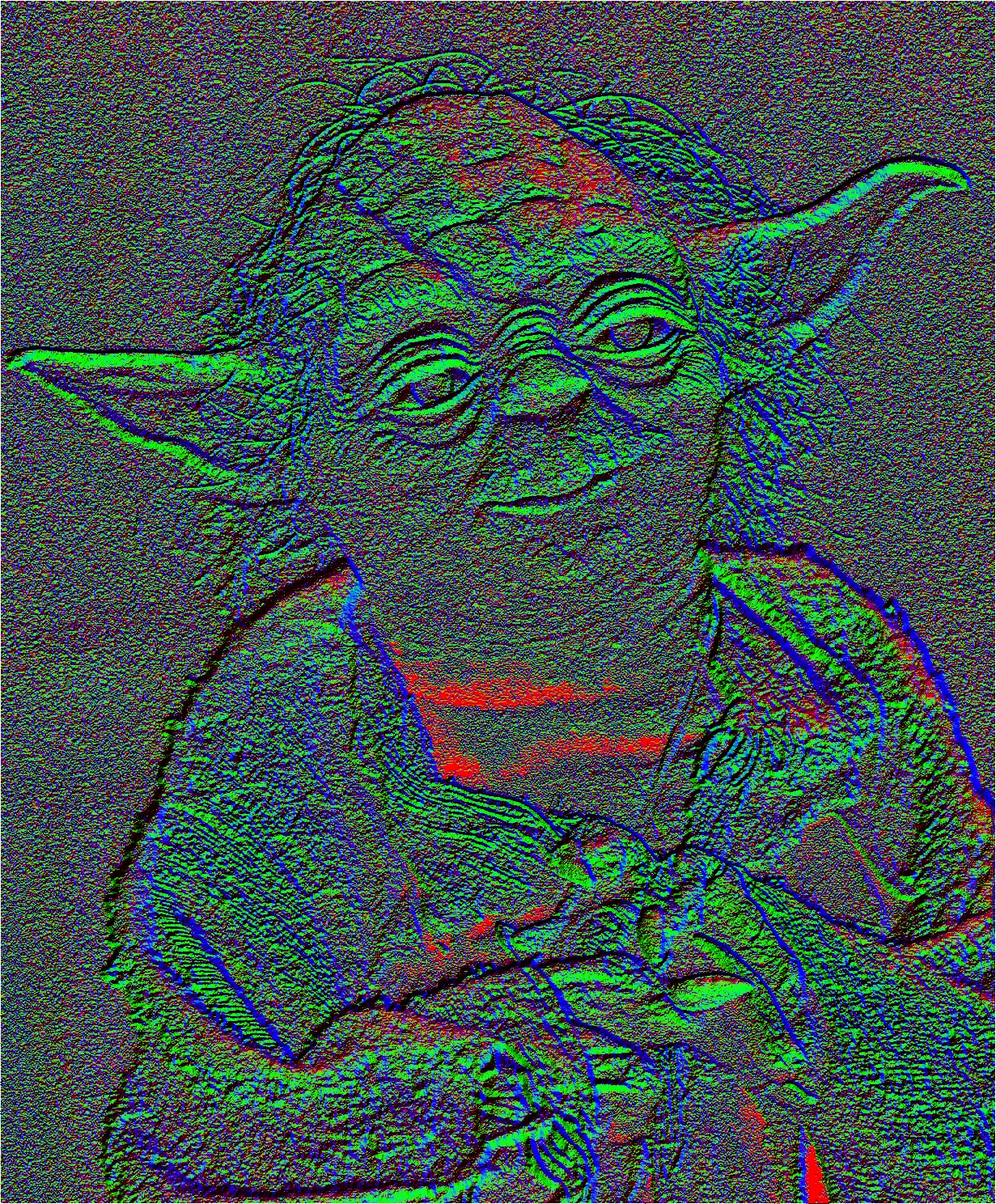
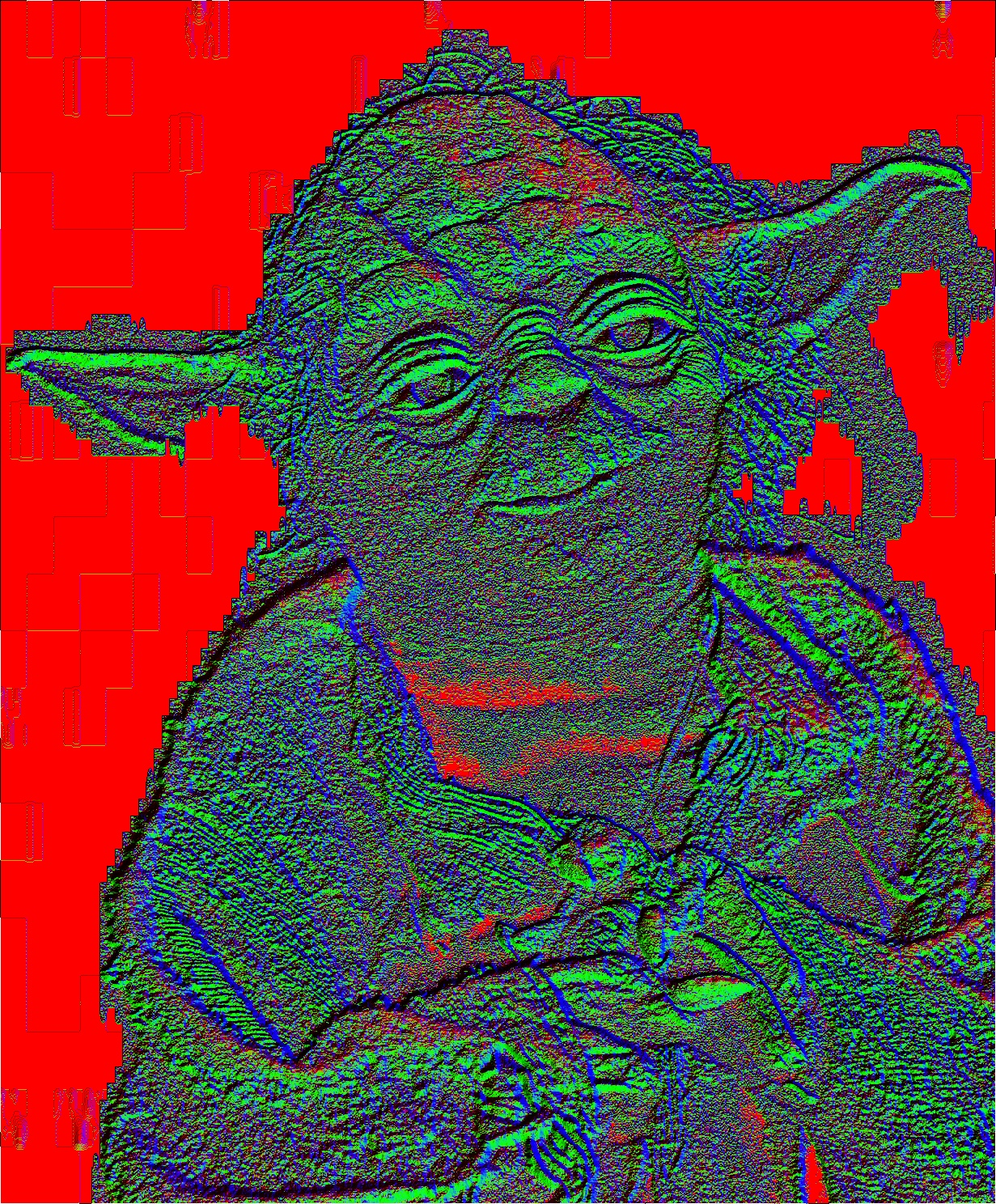
background rm

Changed region(s): [[0.0, 0.0, 1.0, 1.0]]

diff --git a/Numpy/Numpy_Prototype/method1.py b/Numpy/Numpy_Prototype/method1.py
@@ -1,9 +1,38 @@
 import numpy as np
 import mediapipe as mp
+from scipy import ndimage
 import cv2
 from matplotlib import pyplot as plt
 
-d_im = cv2.imread('image1.jpg').astype("float64")
+# Background Removal
+img = cv2.imread('image1.jpg')
+bg_image = cv2.imread('bg.jpg')
+
+height , width, channel = img.shape
+
+mp_selfie_segmentation = mp.solutions.selfie_segmentation
+selfie_segmentation = mp_selfie_segmentation.SelfieSegmentation(model_selection=1)
+
+RGB = cv2.cvtColor(img, cv2.COLOR_BGR2RGB)
+
+results = selfie_segmentation.process(RGB)
+# extract segmented mask
+mask = results.segmentation_mask
+
+# it returns true or false where the condition applies in the mask
+condition = np.stack((results.segmentation_mask,) * 3, axis=-1) > 0.00000001
+# resize the background image to the same size of the original frame
+bg_image = cv2.resize(bg_image, (width, height))
+
+output_image = np.where(condition, img, bg_image)
+
+# show outputs
+plt.imshow(output_image)
+plt.show()
+
+
+# Normal Map Generation
+d_im = output_image.astype("float64")
 
 normals = np.array(d_im, dtype="float32")
 h,w,d = d_im.shape

diff --git a/README.md b/README.md
@@ -16,7 +16,7 @@ once in a while when you are in space. For each image taken, you have to perform
   - **Challenge**: Using OpenCV’s various methods of feature detection, you will identify the features that are present in the photos that the AVHC took. 
   You will then extract these features and generate separate smaller images that your computer can handle.
 
-- NumPy (+ maybe scripy)
+- NumPy (+ maybe scipy)
 
   - **Background story (context)**: Good job, you have spoiled many evil plans from the aliens, but they will not stand there and do nothing. 
   Recently, the angry aliens have started using pictures to trick our algorithms! To combat this and ensure the human’s safety, 
